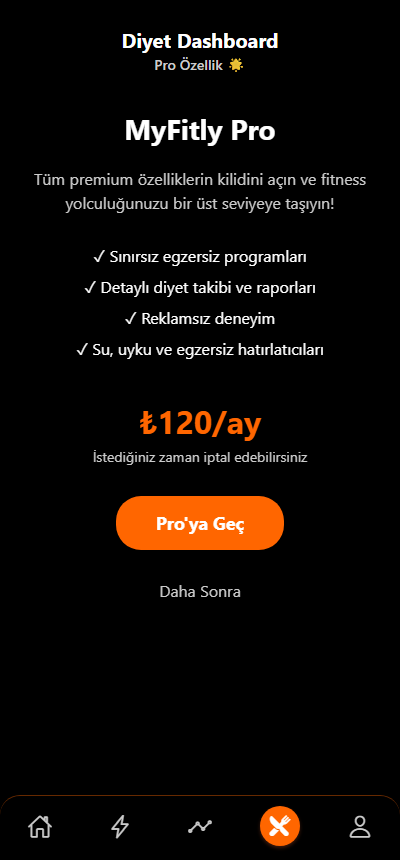
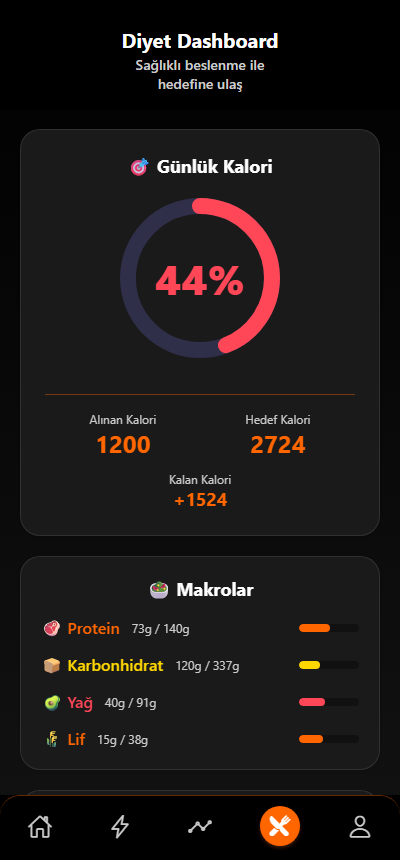
Diyet ekranındaki Pro kilidini gerçekten çalışır hale getir, ekran görüntülerini güncelle
SubscriptionContext yalnızca isSubscribed/activateSubscription export ediyordu
ama DietScreen/DashboardScreen/TrackingScreen/TrainingScreen hepsi isPro,
purchaseSubscription, restorePurchases okuyordu - bunlar hep undefined
olduğundan Diyet ekranındaki paywall, Pro aktifleştirilse bile hiçbir zaman
kapanmıyordu. isPro'yu isSubscribed'a alias'ladım ve eksik fonksiyonları ekledim.

Ayrıca react-native-google-mobile-ads native-only olduğu için `npm run web`
bundling'i tamamen kırıyordu (README zaten web preview'in çalıştığını
söylüyordu) - adService.web.js ve useRewardedAd.web.js no-op stub'ları
ekleyerek web build'i gerçekten çalışır hale getirdim.

04_diet.png artık ödeme ekranı yerine Pro açılmış gerçek diyet dashboard'unu
gösteriyor; su takibi ve öğün listesi ekran görüntüleri de eklendi.

diff --git a/MyFitly/src/context/SubscriptionContext.js b/MyFitly/src/context/SubscriptionContext.js
@@ -51,9 +51,11 @@ export const SubscriptionProvider = ({ children }) => {
       setIsSubscribed(true);
       // Show success message
       alert('MyFitly Pro aboneliğiniz başarıyla aktifleştirildi! (demo)');
+      return true;
     } catch (error) {
       console.error('Error activating subscription:', error);
       alert('Abonelik aktifleştirilirken bir hata oluştu.');
+      return false;
     }
   };
 
@@ -66,10 +68,19 @@ export const SubscriptionProvider = ({ children }) => {
     }
   };
 
+  // DEMO ONLY: no real IAP/store to restore purchases from - just re-reads
+  // the locally stored flag.
+  const restorePurchases = async () => {
+    await loadSubscriptionStatus();
+  };
+
   const value = {
     isSubscribed,
+    isPro: isSubscribed,
     isLoading,
     activateSubscription,
+    purchaseSubscription: activateSubscription,
+    restorePurchases,
     deactivateSubscription,
   };
 

diff --git a/MyFitly/src/services/adService.web.js b/MyFitly/src/services/adService.web.js
@@ -1,0 +1,26 @@
+// Web build of adService: react-native-google-mobile-ads is a native-only
+// module (imports RN internals Metro can't bundle for web), so this file
+// stands in for adService.js on web via Metro's platform extension
+// resolution. Ads are a no-op here; native behavior is unaffected.
+
+export const loadInterstitialAd = () => {};
+
+export const loadRewardedAd = () => {};
+
+export const showInterstitialAd = (onAdClosed = null) => {
+  if (onAdClosed) onAdClosed();
+  return Promise.resolve();
+};
+
+export const showRewardedAd = () => {};
+
+export const AdBanner = () => null;
+
+export const initializeAds = () => {};
+
+export const BannerAd = null;
+export const BannerAdSize = null;
+export const InterstitialAd = null;
+export const RewardedAd = null;
+export const AD_UNIT_IDS = {};
+export const mobileAds = null;

diff --git a/MyFitly/src/hooks/useRewardedAd.web.js b/MyFitly/src/hooks/useRewardedAd.web.js
@@ -1,0 +1,19 @@
+// Web build of useRewardedAd: react-native-google-mobile-ads is native-only
+// and can't be bundled for web (see src/services/adService.web.js). Rewarded
+// ads are a no-op on web; native behavior is unaffected.
+
+const useRewardedAd = () => {
+  const showAd = async () => {
+    throw new Error('Rewarded ads are not available on web');
+  };
+
+  return {
+    loaded: false,
+    loading: false,
+    showAd,
+    earnedReward: null,
+    loadAd: () => {},
+  };
+};
+
+export default useRewardedAd;

diff --git a/README.md b/README.md
@@ -14,9 +14,9 @@ A fitness & diet tracking mobile app built with **React Native (Expo)** and **Su
 |---|---|---|
 | ![Training](MyFitly/screenshots/02_training.png) | ![Tracking](MyFitly/screenshots/03_tracking.png) | ![Diet](MyFitly/screenshots/04_diet.png) |
 
-| Profile |
-|---|
-| ![Profile](MyFitly/screenshots/05_profile.png) |
+| Profile | Diet — Water & Meals | Diet — Meal Slots |
+|---|---|---|
+| ![Profile](MyFitly/screenshots/05_profile.png) | ![Diet water tracking](MyFitly/screenshots/08_diet_water.png) | ![Diet meal slots](MyFitly/screenshots/09_diet_meals.png) |
 
 ## Features
 
